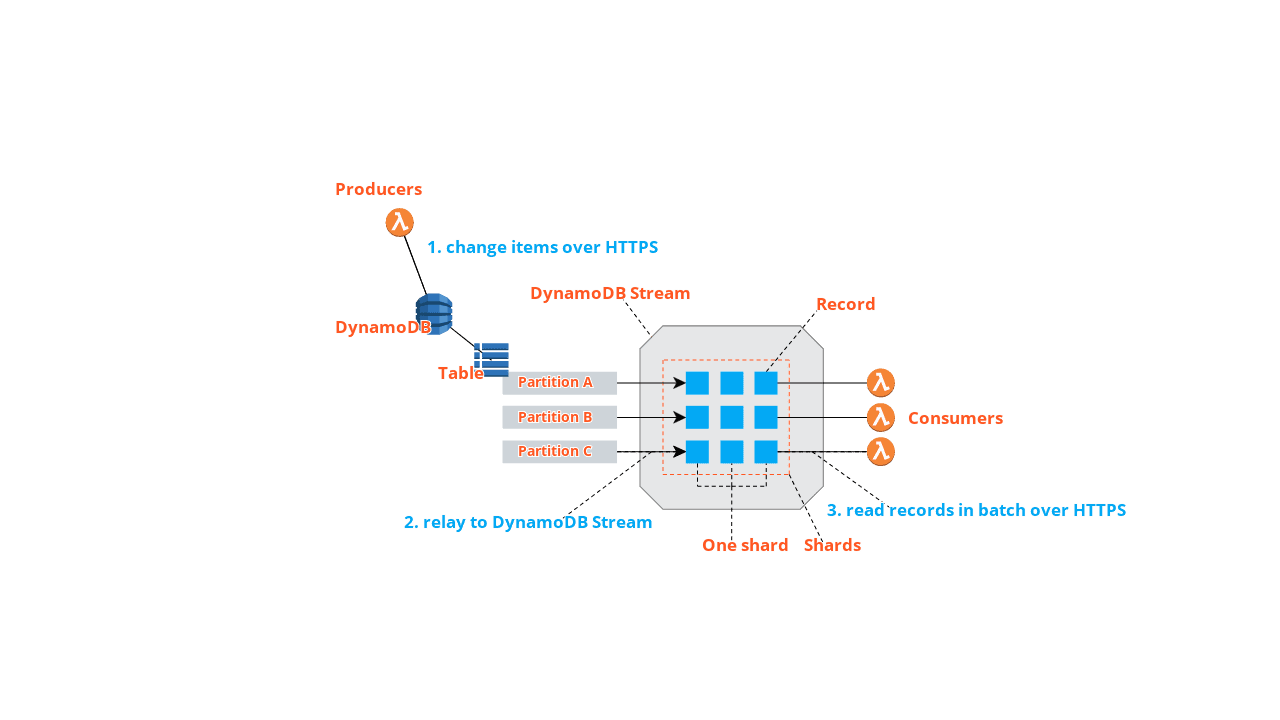
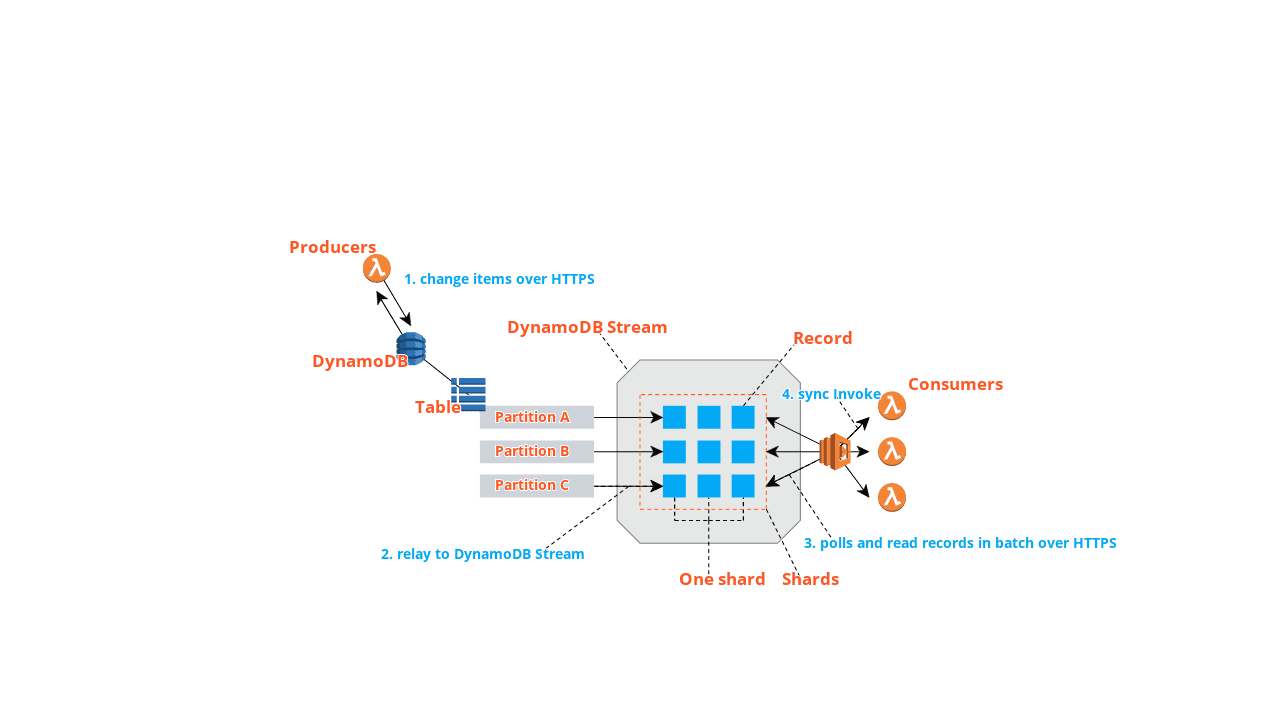
update-content

diff --git a/nosql/dynamodb-streams/index.html b/nosql/dynamodb-streams/index.html
@@ -149,8 +149,9 @@
 <p>上图涉及到DynamoDB Stream的工作流程是：</p>
 <ol>
 <li>Producers将向表中修改数据，包括添加数据，修改已有数据，删除数据等。这些操作均是基于HTTPS协议来发起的。</li>
-<li>DynamoDB将修改之后的数据发送给DynamoDB Stream（向每个Shard中写入数据的速率最多是1MB/S），数据在DynamoDB中只能存放24小时，在这之后，数据将自动从DynamoDB Stream中移除。</li>
-<li>每个Consumer从对应的Shard中批量读取记录，每次最多能读取1000条记录或者每秒最多能读取2MB数据，只要有一个条件满足，则读取数据的操作将停止并将读到的数据返回给Consumer。读取操作是基于HTTPS协议来发起的。</li>
+<li>DynamoDB将修改之后的数据写入内部的Transactions Log文件，DynamoDB Stream从该文件中读取更新之后的数据并存放24小时，在这之后，数据将自动从DynamoDB Stream中移除。</li>
+<li>Lambda平台向每一个Shard发送HTTPS请求并以poll的方式监听所有的Shards。</li>
+<li>Lambda平台从Shard中批量读取新数据（Records），并以Sync的方式启动一个Lambda Function实例，并将Records传入并执行该实例。如果结果返回成功，那么Lambda平台会继续读取下一批数据，失败则把当前的数据集传入该函数实例，并重新执行。</li>
 </ol>
 <p>上图涉及到DynamoDB Stream的内部逻辑以及外部交互：</p>
 <p>研发人员在使用DynamoDB服务时，需要创建表（Table），每一张表其内部又根据数据量划分了好几个分区（如上图的Partition A，Partition B，Partition C）。每一个分区其实会分布于不同的服务器上。</p>
@@ -197,7 +198,23 @@
 <span class="o">}</span>
 </code></pre></div><p>由于目标数据库没有ID为123的数据，因此这次更新目标数据库的操作将失败。将DynamoDB Stream中的数据发送到其它系统这个过程会伴随着错误，因此研发人员需要根据不同的应用场景设计出错误处理方案。接下来，让我们看看如何基于DynamoDB Stream来设计健壮的事件驱动型系统。</p>
 <h2 id="dynamodb-stream-2">基于DynamoDB Stream的设计模式</h2>
-<p>DynamoDB Stream非常适合于事件驱动型架构（<a href="https://en.wikipedia.org/wiki/Event-driven_architecture">event-driven architecture</a>）。</p>
+<p>DynamoDB Stream非常适合于事件驱动型架构（<a href="https://en.wikipedia.org/wiki/Event-driven_architecture">event-driven architecture</a>）。事件驱动型架构的基本思想是：当一个事件发生了（比如用户注册或者购买了一件商品），该事件将被记录下来，并由事件响应者（比如全文搜索系统或分析系统等）处理这些事件。接下来，让我们通过一个例子来应用这种架构。</p>
+<p>假设，你是The New York Times报社，当前的用户量有100+万。用户希望能够快速打开热门的新闻，除此之外，还希望能够通过关键字来搜索相关文章。为了解决当下这些问题，让我们看一个比较简单的方案。</p>
+<p><strong>1. 一个简单的基于事件驱动型架构的例子</strong></p>
+<p>根据以上需求，我们选择了DynamoDB，Lambda以及Elastic Search来解决提到的问题，结果如下图所示：</p>
+<p><img class="lazy" data-src="https://2cloudlab.com/images/blog/event-driven-architecture-dynamodb-stream.png" alt=""  /></p>
+<p>其中，DynamoDB用于存储新闻，并提供高效获取数据的能力，新闻工作者可以将编辑的新闻提交到DynamoDB，终端用户可以根据新闻的ID打开这篇新闻。</p>
+<p>为了支持查询，我们需要引入Elastic Search，它具有全文搜索的能力，但是依旧需要研发人员启动并管理多个实例（如果需要Serverless的搜索服务，那么可以考虑使用<a href="https://www.algolia.com/">algolia</a>）。</p>
+<p>接下来，我们需要向Elastic Search填充数据。为了持续填充变化的数据，则需要借助DynamoDB Stream和Lambda。研发人员需要在存储新闻信息的表上启用DynamoDB Stream，选择合适的语言（GO，Python，Java）编写一个Lambda函数，该函数通过调用Elastic Search的SDK来填入数据。最后，将DynamoDB Stream与Lambda函数映射在一起。</p>
+<p>该解决方案的运作过程是：新闻编辑者将新闻上传到DynamoDB，紧接着DynamoDB Stream将触发Lambda函数，而Lambda函数会将新闻的变化（比如新添，修改或删除新闻）填充到Elastic Search中。终端用户一方面能够从DynamoDB中获取一篇或多篇文章，另外一方面也能够通过关键字从Elastic Search中搜索感兴趣的文章。</p>
+<p>到目前为止，一切都非常顺利，但是如果以上描述的整个过程中某一个环节出现了错误（比如上图的环节1或者2）应该怎么办？</p>
+<p><strong>2. 如何处理事件驱动型架构中的错误</strong></p>
+<p>事件驱动型系统中的错误主要分为2类：组件与组件之间通信相关的错误和组件自身的错误。前者是可以自动修复的，比如某一个时间段网络太拥堵而导致信息丢失了，这类错误只需要通过重新尝试就可以解决。而后者是无法自动修复，并需要人为干预，才能修复。比如，新闻工作者想上传一篇超过400KB的文章，可是基于现有的系统，传输时会提示失败，原因在于DynamoDB的Item，其大小不能超过400KB。</p>
+<p>任何一类错误均有可能在上图的1和2中发生，如果发生，则需要一个异常处理的机制来纠正这些错误。针对组件与组件之间的错误，则只需要通过重新尝试的机制来解决。比如上图的第2步，如果因网络原因无法将数据填入Elastic Search，那么Lambda会自动重新执行Lambda函数，重试的时间间隔按照<a href="https://en.wikipedia.org/wiki/Exponential_backoff">Exponential backoff</a>的方式来决定。但是如果是Lambda函数自身的错误，那么为了纠正这类错误则需要分场景来考虑。</p>
+<p>一种场景是需要依赖数据的次序的，比如，现在所遇到的往Elastic Search中填入数据的例子。如果我们处理某一个数据出错时，这个错误是因为Lambda函数自身所引起的，那么这个错误是不能忽略的，而是要及时通知给相关的研发人员。接到通知后，研发人员需要分析Lambda函数的日志，并采取修补措施。</p>
+<p>另外一种场景是不依赖于数据的次序的，比如，统计投票数量等信息。此时，如果我们处理某一个数据出错时，则可以将这个出错的信息记录到一个队列里，并继续处理下一条记录。当这些错误的信息超过一定量时，则通知相关的研发人员。接到通知后，研发人员则需要分析Lambda函数的日志，并采取修补措施。下图为这种场景的异常处理机制：</p>
+<p><img class="lazy" data-src="https://2cloudlab.com/images/blog/event-driven-architecture-dynamodb-stream-failed-handle.png" alt=""  /></p>
+<p>上面的解决方案依然存在问题。如果步骤2和步骤10处理同一个Record，那么结果是Statistics中的信息将是不准确的。因此为了避免这类错误，则需要将步骤2和步骤10之前的2个Lambda函数设计成具有<a href="https://en.wikipedia.org/wiki/Idempotence">idempotent</a>属性。具有该属性的函数即便是执行多次，也不会影响Statistics中的最终结果。</p>
 <h2 id="heading">参考</h2>
 <ul>
 <li><a href="https://aws.amazon.com/blogs/database/how-to-perform-ordered-data-replication-between-applications-by-using-amazon-dynamodb-streams/">How to perform ordered data replication between applications by using Amazon DynamoDB Streams</a></li>

diff --git a/tags/devops/index.html b/tags/devops/index.html
@@ -11,7 +11,7 @@
   <!-- Mobile Specific Metas -->
   <meta name="format-detection" content="telephone=no">
   <meta name="viewport" content="width=device-width, initial-scale=1">
-  <title>DevOps</title>
+  <title>devops</title>
   <link rel="icon" href="https://2cloudlab.com/images/favicon.ico">
 
   <!-- Twitter Bootstrs CSS -->
@@ -90,7 +90,7 @@
         <div class="row">
             <div class="col-md-12">
                 <div class="block">
-                    <h2>DevOps</h2>
+                    <h2>devops</h2>
                     <ol class="breadcrumb list-inline text-center">
                         <li class="list-inline-item">
                             <a href="https://2cloudlab.com/">
@@ -98,7 +98,7 @@
                                 返回首页 &nbsp; &nbsp;/
                             </a>
                         </li>
-                        <li class="active list-inline-item">DevOps</li>
+                        <li class="active list-inline-item">devops</li>
                     </ol>
                 </div>
             </div>

diff --git a/tags/cicd/index.html b/tags/cicd/index.html
@@ -11,7 +11,7 @@
   <!-- Mobile Specific Metas -->
   <meta name="format-detection" content="telephone=no">
   <meta name="viewport" content="width=device-width, initial-scale=1">
-  <title>CICD</title>
+  <title>cicd</title>
   <link rel="icon" href="https://2cloudlab.com/images/favicon.ico">
 
   <!-- Twitter Bootstrs CSS -->
@@ -90,7 +90,7 @@
         <div class="row">
             <div class="col-md-12">
                 <div class="block">
-                    <h2>CICD</h2>
+                    <h2>cicd</h2>
                     <ol class="breadcrumb list-inline text-center">
                         <li class="list-inline-item">
                             <a href="https://2cloudlab.com/">
@@ -98,7 +98,7 @@
                                 返回首页 &nbsp; &nbsp;/
                             </a>
                         </li>
-                        <li class="active list-inline-item">CICD</li>
+                        <li class="active list-inline-item">cicd</li>
                     </ol>
                 </div>
             </div>

diff --git a/tags/index.html b/tags/index.html
@@ -657,7 +657,7 @@
                     </div>
                     <div class="blog-content">
                         <h2 class="blogpost-title">
-                            <a href="https://2cloudlab.com/tags/cicd/">CICD</a>
+                            <a href="https://2cloudlab.com/tags/cicd/">cicd</a>
                         </h2>
                         <div class="blog-meta">
                             <span>2020-03-10</span>
@@ -705,7 +705,7 @@
                     </div>
                     <div class="blog-content">
                         <h2 class="blogpost-title">
-                            <a href="https://2cloudlab.com/tags/devops/">DevOps</a>
+                            <a href="https://2cloudlab.com/tags/devops/">devops</a>
                         </h2>
                         <div class="blog-meta">
                             <span>2020-03-10</span>
